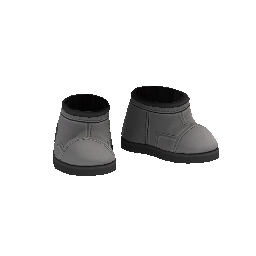
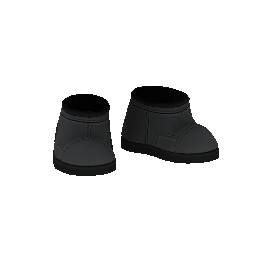
Fixed Kerbalism patch

Changed region(s): [[0.4688, 0.3438, 0.875, 0.6562], [0.1875, 0.4062, 0.4688, 0.6875]]

diff --git a/G3MagnetBoots/HullTargeting.cs b/G3MagnetBoots/HullTargeting.cs
@@ -13,10 +13,16 @@ namespace G3MagnetBoots
 
         public bool IsValid()
         {
-            return this.part != null
-                && this.collider != null
-                && this.part.FindModuleImplementing<ModuleG3NoAttach>() == null // cannot attach to parts with G3NoAttachModule, added to blacklist parts from config
-                && (G3MagnetBootsSettings.Current.magbootsAsteroidsEnabled || this.part.FindModuleImplementing<ModuleAsteroid>() == null);
+            if (this.part == null || this.collider == null) return false;
+            if (this.part.FindModuleImplementing<ModuleG3NoAttach>() != null) return false;
+            if (!G3MagnetBootsSettings.Current.magbootsAsteroidsEnabled && this.part.FindModuleImplementing<ModuleAsteroid>() != null) return false;
+
+            // Disallow attaching to debris, unknown, or uncontrolled space objects
+            Vessel v = this.part.vessel;
+            if (v != null && (v.vesselType == VesselType.Debris || v.vesselType == VesselType.Unknown || v.vesselType == VesselType.SpaceObject))
+                return false;
+
+            return true;
         }
     }
 
@@ -117,6 +123,10 @@ namespace G3MagnetBoots
                 if (!G3MagnetBootsSettings.Current.magbootsAsteroidsEnabled &&
                     hitPart.FindModuleImplementing<ModuleAsteroid>() != null) continue;
 
+                // Disallow debris, unknown, uncontrolled space objects
+                Vessel hitVessel = hitPart.vessel;
+                if (hitVessel != null && (hitVessel.vesselType == VesselType.Debris || hitVessel.vesselType == VesselType.Unknown || hitVessel.vesselType == VesselType.SpaceObject))
+                    continue;
 
                 bool originInsideThis = false;
                 if (hit.collider != null)

diff --git a/G3MagnetBoots/Modules/ModuleG3MagnetBoots.cs b/G3MagnetBoots/Modules/ModuleG3MagnetBoots.cs
@@ -351,16 +351,10 @@ namespace G3MagnetBoots
 
         public void SetEnabled(bool enabled)
         {
-            if (HasMagnetBootsInInventory())
-            {
-                this.enabled = enabled;
-                SetAG(KSPActionGroup.Gear, enabled);
-            }
-            else
-            {
-                this.enabled = false;
-                SetAG(KSPActionGroup.Gear, false);
-            }
+            bool bootsEnabled = enabled && HasMagnetBootsInInventory();
+            this.enabled = bootsEnabled;
+            this.moduleIsEnabled = bootsEnabled;
+            SetAG(KSPActionGroup.Gear, bootsEnabled);
         }
 
 